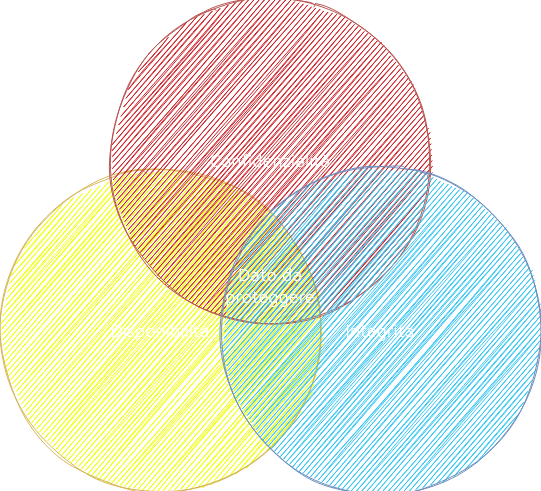
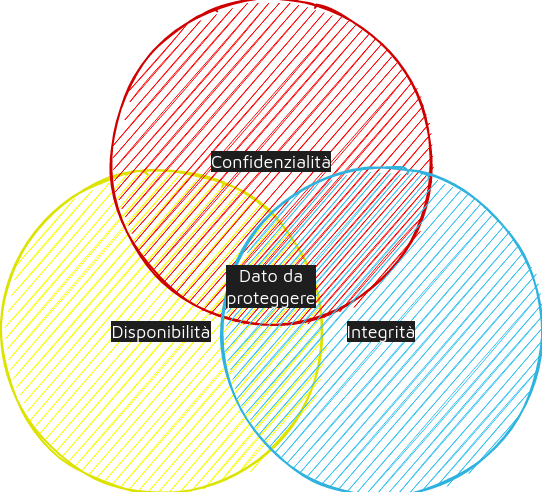
test15

diff --git a/README.md b/README.md
@@ -17,8 +17,8 @@ L'acronimo CIA viene usato per rappresentare le tre proprietà fondamentali dell
 - **Integrità**: solo chi è autorizzato può modificare, eliminare e creare risorse;
 - **Disponibilità**: solo chi è autorizzato può accedere alle risorse senza interferenze ed ostacoli.
 
-![Cia-Light](./img/img1.png#gh-light-mode-only)
-![Cia-Dark ](./img/img1-dark.png#gh-dark-mode-only)
+![Cia-Mark-Light](./img/img1-light.png#gh-light-mode-only)
+![Cia-Mark-Dark ](./img/img1-dark.png#gh-dark-mode-only)
 
 A queste proprietà se ne possono aggiungere altre come:
 
@@ -491,7 +491,7 @@ L'approccio usato al giorno d'oggi, quindi, risulta essere la trasfrormazione se
 
 - Con `T` si indica la trasformazione nota (quindi la conosce anche l'intrusore);
 - Con `k` indichiamo la _chiave_, ovvero il parametro non noto, in ingresso;
-- Con _spazio delle chiavi_ si intende l'insieme delle <img src="svgs/98592f46da9c6e660c7a3e12be2859a4.svg?invert_in_darkmode" align=middle width=16.34523329999999pt height=21.839370299999988pt/> possibili configurazioni dove `n` è il numero di bit della chiave. La chiave è costituita da una delle <img src="svgs/98592f46da9c6e660c7a3e12be2859a4.svg?invert_in_darkmode" align=middle width=16.34523329999999pt height=21.839370299999988pt/> configurazioni. Più è grande `n`, più è complicato per un intrusore indovinare la chiave.
+- Con _spazio delle chiavi_ si intende l'insieme delle <img src="svgs/529bfde48b13334f6272c26fa9242aef.svg?invert_in_darkmode" align=middle width=24.56444265pt height=21.839370299999988pt/> possibili configurazioni dove `n` è il numero di bit della chiave. La chiave è costituita da una delle <img src="svgs/529bfde48b13334f6272c26fa9242aef.svg?invert_in_darkmode" align=middle width=24.56444265pt height=21.839370299999988pt/> configurazioni. Più è grande `n`, più è complicato per un intrusore indovinare la chiave.
 
 ### Algoritmo forza bruta
 
@@ -539,7 +539,7 @@ Bisogna evitare che un intrusore possa:
 ### Indovinare la chiave
 
 È sempre possibile risalire alla chiave tramite attacco con _forza bruta_. Per ridurre le probabilità di successo di questo attacco, occorrono alcuni accorgimenti:
-- **Lo spazio delle chiavi deve essere molto grande**: se `n` è il numero di bit che rappresenta la chiave, <img src="svgs/cf2889bdb114fa1a6a34972c325d36bd.svg?invert_in_darkmode" align=middle width=40.302373649999986pt height=22.831056599999986pt/> <img src="svgs/98592f46da9c6e660c7a3e12be2859a4.svg?invert_in_darkmode" align=middle width=16.34523329999999pt height=21.839370299999988pt/> è l'insieme delle possibili configurazioni. Più è grande `n`, più è difficile per un intrusore indovinare la chiave;
+- **Lo spazio delle chiavi deve essere molto grande**: se `n` è il numero di bit che rappresenta la chiave, 2^n è l'insieme delle possibili configurazioni. Più è grande `n`, più è difficile per un intrusore indovinare la chiave;
 - **I bit della chiave devono essere casuali**;
 - **Limitare il numero di prove che l'intrusore ha a disposizione**, come ad esempio il pin del bancomat. Dopo tre tentativi si disabilita l'accesso;
 - **Cambiare frequentemente la chiave**: se i dati devono essere mantenuti a lungo termine, occorre cambiare frequentemente la chiave. In questo modo, si riducono le probabilità di individuare quest'ultima da parte dell'intrusore.
@@ -616,8 +616,8 @@ Tramite la notazione del _O grande_ è possibile evidenziare come incrementa il 
 
 Gli algoritmi possono essere classificati in due categorie:
 
-- **Tempo polinomiale**: algoritmo in grado di completare l'elaborazione di una dimensione `n` di dati in ingresso in un tempo di esecuzione pari a <img src="svgs/ee6ed68481f95c0e531c3fead6d58752.svg?invert_in_darkmode" align=middle width=43.73567879999999pt height=27.91243950000002pt/> dove `k` è un numero intero positivo;
-- **Tempo esponenziale**: algoritmo in grado di completare l'elaborazione di una dimensione `n` di dati in ingresso in un tempo di esecuzione pari a <img src="svgs/892228ed171a7bc1ff860e1f660e1242.svg?invert_in_darkmode" align=middle width=42.38293454999999pt height=24.65753399999998pt/> dove `n` è la dimensione `n` di dati in ingresso.
+- **Tempo polinomiale**: algoritmo in grado di completare l'elaborazione di una dimensione `n` di dati in ingresso in un tempo di esecuzione pari a O(n^{k} dove `k` è un numero intero positivo;
+- **Tempo esponenziale**: algoritmo in grado di completare l'elaborazione di una dimensione `n` di dati in ingresso in un tempo di esecuzione pari a O(e^{n}) dove `n` è la dimensione `n` di dati in ingresso.
 
 ### Classificazione dei problemi
 
@@ -735,7 +735,7 @@ La resistenza alle collisione è fondamentale quando la funzione hash è usata p
 
 **Problema**: data una funzione hash con `n` possibili output e un determinato `H(x)`, se `H` viene applicato a `K` input casuali, quale deve essere il valore di `k` tale che la probabilità che almeno un input `y` soddisfi `H(y) = H(x)` sia maggiore di 0.5?
 
-- **Resistenza debole**: si indica con <img src="svgs/14c95938d1eb8c5cc621f64feabe5fdd.svg?invert_in_darkmode" align=middle width=101.90990699999998pt height=27.77565449999998pt/> la probabilità di un tentativo di trovare una collisione. La probabilità di insuccesso, quindi, è 1 - 1/2^n. Se si hanno k tentativi, P_k(2^n, k) = 1 - (1 - 1/2^n)^k. Questo vuol dire che k= P_k(2^n, k) * 2^n. 2^n per avere un andamento esponenziale deve essere almeno 128. Dunque, l'impronta deve essere almeno 128 bit;
+- **Resistenza debole**: si indica con P_1(2^{n}, 1) = \frac{1}{2^n} la probabilità di un tentativo di trovare una collisione. La probabilità di insuccesso, quindi, è 1 - 1/2^n. Se si hanno k tentativi, P_k(2^n, k) = 1 - (1 - 1/2^n)^k. Questo vuol dire che k= P_k(2^n, k) * 2^n. 2^n per avere un andamento esponenziale deve essere almeno 128. Dunque, l'impronta deve essere almeno 128 bit;
 - **Resistenza forte (paradosso del compleanno)**: nell’ipotesi che le date di nascita siano equiprobabili, è sufficiente scegliere a caso 253 persone per avere una probabilità > 0,5 che una di queste compia gli anni in un dato giorno. Sono invece sufficienti 23 persone scelte a caso per avere una probabilità > 0,5 che due o più compiano gli anni nello stesso giorno. Quindi, non bastano 128 bit. Il numero di bit deve essere il doppio perché per la resistenza forte sono necessari 2^(n/2) tentativi. Dunque, è più facile effettuare un attacco rispetto alla resistenza debole.
 
 ### Unidirezionalità

diff --git a/READOTHER.md b/READOTHER.md
@@ -17,7 +17,8 @@ L'acronimo CIA viene usato per rappresentare le tre proprietà fondamentali dell
 - **Integrità**: solo chi è autorizzato può modificare, eliminare e creare risorse;
 - **Disponibilità**: solo chi è autorizzato può accedere alle risorse senza interferenze ed ostacoli.
 
-![cia](./img/img1.png)
+![Cia-Mark-Light](./img/img1-light.png#gh-light-mode-only)
+![Cia-Mark-Dark ](./img/img1-dark.png#gh-dark-mode-only)
 
 A queste proprietà se ne possono aggiungere altre come:
 
@@ -490,7 +491,7 @@ L'approccio usato al giorno d'oggi, quindi, risulta essere la trasfrormazione se
 
 - Con `T` si indica la trasformazione nota (quindi la conosce anche l'intrusore);
 - Con `k` indichiamo la _chiave_, ovvero il parametro non noto, in ingresso;
-- Con _spazio delle chiavi_ si intende l'insieme delle $ 2^n $ possibili configurazioni dove `n` è il numero di bit della chiave. La chiave è costituita da una delle $ 2^n $ configurazioni. Più è grande `n`, più è complicato per un intrusore indovinare la chiave.
+- Con _spazio delle chiavi_ si intende l'insieme delle $ \color{white} 2^n $ possibili configurazioni dove `n` è il numero di bit della chiave. La chiave è costituita da una delle $ \color{white} 2^n $ configurazioni. Più è grande `n`, più è complicato per un intrusore indovinare la chiave.
 
 ### Algoritmo forza bruta
 
@@ -538,7 +539,7 @@ Bisogna evitare che un intrusore possa:
 ### Indovinare la chiave
 
 È sempre possibile risalire alla chiave tramite attacco con _forza bruta_. Per ridurre le probabilità di successo di questo attacco, occorrono alcuni accorgimenti:
-- **Lo spazio delle chiavi deve essere molto grande**: se `n` è il numero di bit che rappresenta la chiave, $\beta=0$ $ 2^n $ è l'insieme delle possibili configurazioni. Più è grande `n`, più è difficile per un intrusore indovinare la chiave;
+- **Lo spazio delle chiavi deve essere molto grande**: se `n` è il numero di bit che rappresenta la chiave, 2^n è l'insieme delle possibili configurazioni. Più è grande `n`, più è difficile per un intrusore indovinare la chiave;
 - **I bit della chiave devono essere casuali**;
 - **Limitare il numero di prove che l'intrusore ha a disposizione**, come ad esempio il pin del bancomat. Dopo tre tentativi si disabilita l'accesso;
 - **Cambiare frequentemente la chiave**: se i dati devono essere mantenuti a lungo termine, occorre cambiare frequentemente la chiave. In questo modo, si riducono le probabilità di individuare quest'ultima da parte dell'intrusore.
@@ -615,8 +616,8 @@ Tramite la notazione del _O grande_ è possibile evidenziare come incrementa il 
 
 Gli algoritmi possono essere classificati in due categorie:
 
-- **Tempo polinomiale**: algoritmo in grado di completare l'elaborazione di una dimensione `n` di dati in ingresso in un tempo di esecuzione pari a $ O(n^{k}) $ dove `k` è un numero intero positivo;
-- **Tempo esponenziale**: algoritmo in grado di completare l'elaborazione di una dimensione `n` di dati in ingresso in un tempo di esecuzione pari a $ O(e^{n}) $ dove `n` è la dimensione `n` di dati in ingresso.
+- **Tempo polinomiale**: algoritmo in grado di completare l'elaborazione di una dimensione `n` di dati in ingresso in un tempo di esecuzione pari a O(n^{k} dove `k` è un numero intero positivo;
+- **Tempo esponenziale**: algoritmo in grado di completare l'elaborazione di una dimensione `n` di dati in ingresso in un tempo di esecuzione pari a O(e^{n}) dove `n` è la dimensione `n` di dati in ingresso.
 
 ### Classificazione dei problemi
 
@@ -734,7 +735,7 @@ La resistenza alle collisione è fondamentale quando la funzione hash è usata p
 
 **Problema**: data una funzione hash con `n` possibili output e un determinato `H(x)`, se `H` viene applicato a `K` input casuali, quale deve essere il valore di `k` tale che la probabilità che almeno un input `y` soddisfi `H(y) = H(x)` sia maggiore di 0.5?
 
-- **Resistenza debole**: si indica con $ P_1(2^{n}, 1) = \frac{1}{2^n} $ la probabilità di un tentativo di trovare una collisione. La probabilità di insuccesso, quindi, è 1 - 1/2^n. Se si hanno k tentativi, P_k(2^n, k) = 1 - (1 - 1/2^n)^k. Questo vuol dire che k= P_k(2^n, k) * 2^n. 2^n per avere un andamento esponenziale deve essere almeno 128. Dunque, l'impronta deve essere almeno 128 bit;
+- **Resistenza debole**: si indica con P_1(2^{n}, 1) = \frac{1}{2^n} la probabilità di un tentativo di trovare una collisione. La probabilità di insuccesso, quindi, è 1 - 1/2^n. Se si hanno k tentativi, P_k(2^n, k) = 1 - (1 - 1/2^n)^k. Questo vuol dire che k= P_k(2^n, k) * 2^n. 2^n per avere un andamento esponenziale deve essere almeno 128. Dunque, l'impronta deve essere almeno 128 bit;
 - **Resistenza forte (paradosso del compleanno)**: nell’ipotesi che le date di nascita siano equiprobabili, è sufficiente scegliere a caso 253 persone per avere una probabilità > 0,5 che una di queste compia gli anni in un dato giorno. Sono invece sufficienti 23 persone scelte a caso per avere una probabilità > 0,5 che due o più compiano gli anni nello stesso giorno. Quindi, non bastano 128 bit. Il numero di bit deve essere il doppio perché per la resistenza forte sono necessari 2^(n/2) tentativi. Dunque, è più facile effettuare un attacco rispetto alla resistenza debole.
 
 ### Unidirezionalità
